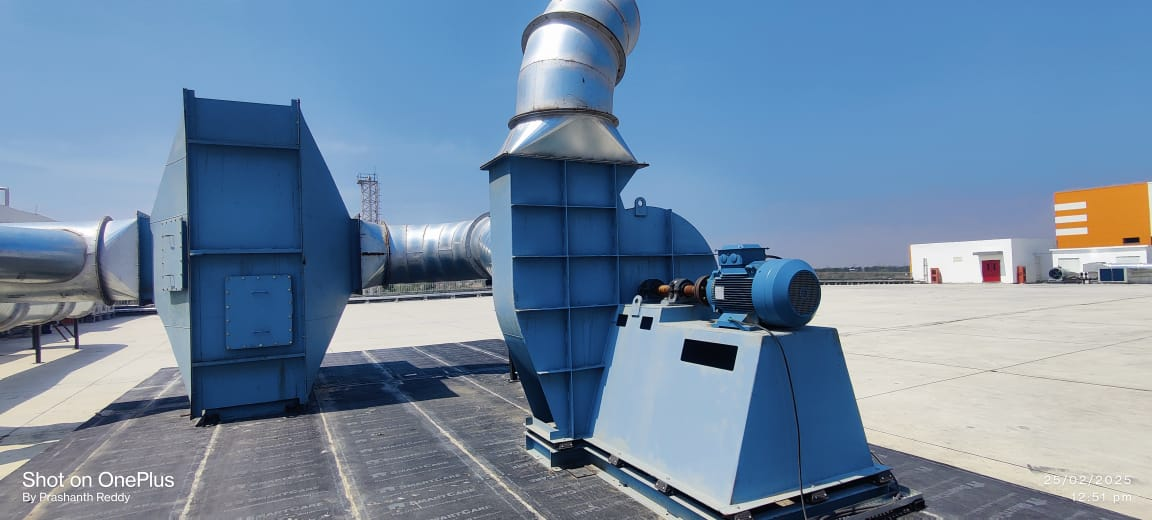
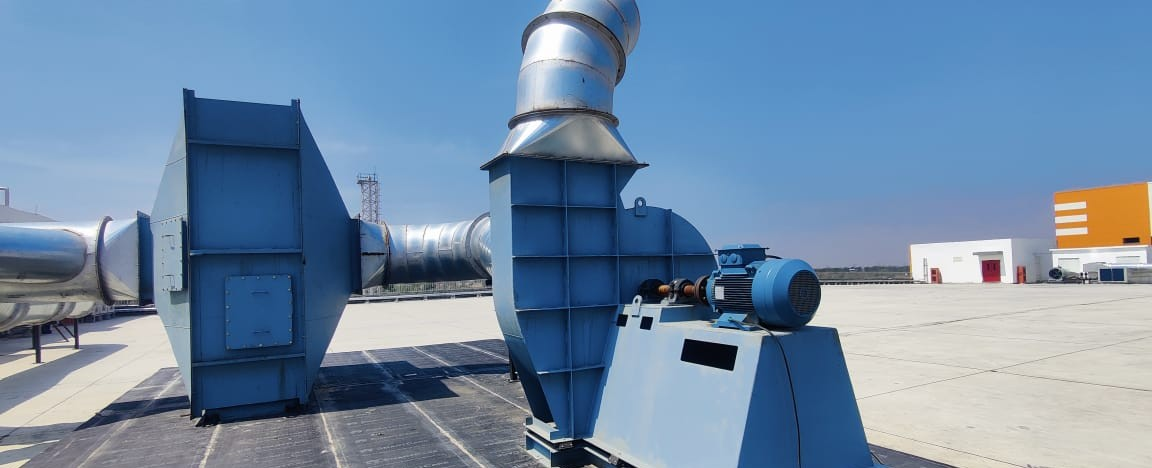
changed the images

diff --git a/src/app/service/AirPollutionControl/page.jsx b/src/app/service/AirPollutionControl/page.jsx
@@ -69,9 +69,9 @@ const commonEquipment = [
 
 // Image map — use your existing images where they match
 const imageMap = {
-  "dust-extraction": "/assets/images/dust extraction.png",
-  "fuel-extraction": "/assets/images/carbon.png",
-  "silo-bin": "/assets/images/ash handling.png",
+  "dust-extraction": "/assets/images/Air_Pollution/a01. Pulsejet Bag Filter for Boiler.jpg",
+  "fuel-extraction": "/assets/images/Air_Pollution/b02. Carbon Filter for Odour Control.jpeg",
+  "silo-bin": "/assets/images/Air_Pollution/d03. Horizontal Positioner.jpg",
   "bulk-loading": "/assets/images/pulsejet.png",
   "wagon": "/assets/images/rotary airlock valve.png",
 };